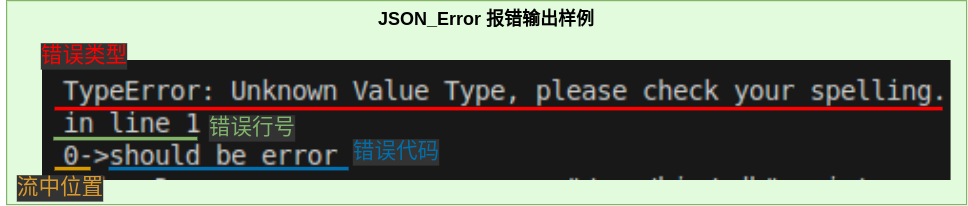
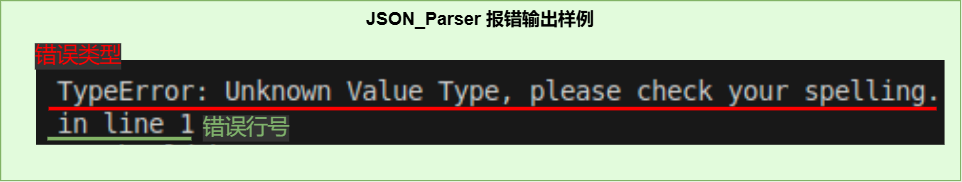
2024.8.12 night Update README & design file

diff --git a/doc/设计文档.md b/doc/设计文档.md
@@ -55,7 +55,6 @@ class JSON_String: public JSON_Value	//string类型数据
 class JSON_Number: public JSON_Value	//number类型数据
 class JSON_Bool: public JSON_Value		//true,false两个bool型
 class JSON_NULL: public JSON_Value		//null类型
-class JSON_Error: public JSON_Value		//报错类型
 ```
 ### 文件管理
 ![MyJSON文件结构](./pic_src/files.png)
@@ -103,39 +102,40 @@ class JSON_Error: public JSON_Value		//报错类型
 	V -> O|A|s|n|b|u
 >其实json格式解析也可以看作一个大的object或者array词法分析
 
-#### json解析主流程
-![json文件主流程](./pic_src/parser_json_file.png)
-
 ---
 ## 接口设计
 >**所有MyJSON库中的函数以及类，都在namespace MyJSON**  
 >**使用MyJSON库，可以直接 #include"MyJSON.h"**
 ### JSON_Value树
 #### 解析接口&输出接口
->创建一个JSON_Value对象，通过其解析器返回解析出来的JSON树  
->>*返回一个智能指针*
+>**JSON_Parser** 和 **JSON_Printer**  
+>创建一个JSON_Value对象，通过解析器返回解析出来的JSON树  
 ```cpp
-std::shared_ptr<MyJSON::JSON_Value> JSON_Value::parser(
-		std::istream& is,
-		std::shared_ptr<JSON_Value> father);
-
 using namespace MyJSON;
 //解析json
-JSON_Value Myparser
-std::shared_ptr<JSON_Value> JS = MyParser.parser(yourStream);
+istream is;
+JSON_Parser MyParser
+JSON_Value root;
+if(!MyParser.parse(is, root))
+{
+	// Error
+	Parse_State error_state1 = MyParser.print_error();//获取错误状态对象或者直接打印
+}
+
 //输出json
-JS->print(your ofstream);	// or std::cout
-```
->*JSON_\* 对象都有相应的parser和print（Value禁止 print，但指向子类的指针允许）*  
-```cpp
-virtual std::ostream& JSON_Value::print(std::ostream& os);
+ostream os;
+JSON_Printer MyPrinter;
+if(!MyPrinter.print(os, root))
+{
+	// Error
+	Print_State error_state2 = MyPrinter.print_error();//获取错误状态对象或者直接打印
+}
 ```
 #### 调用接口
 >***MyJSON Type***  
 ```cpp
 enum JSON_Type
 {
-	JERROR = -1,
 	JINITIAL,	//initial state means JSON_Value
 	JOBJECT,
 	JARRAY,
@@ -151,6 +151,7 @@ std::shared_ptr<JSON_Object> Myobject = JS->get_obj();
 
 get_type() == JOBJECT;
 get_size()		//number of pairs in the Myobject
+get_child()		//return cites of the unordered_map
 
 Myobject[key]	//return a shared_ptr<JSON_Value>, key's sample: "name"
 
@@ -162,6 +163,7 @@ std::shared_ptr<JSON_Array> Myarray = JS->get_arr();
 
 get_type() == Jarray;
 get_size()		//number of values in the Myarray;
+get_child()		//return cites of the vector
 
 Myarray[index]	//return a shared_ptr<JSON_Value>
 
@@ -244,7 +246,7 @@ public:
 						std::string error_info) = 0;	//（error_info错误信息）
 };
 ```
-> 处理器样例在文末附录  
+> 处理器样例在文末[附录](#附录)  
 > *~~处理器只需要重载函数就好了，而解析器复制树状解析代码需要考虑的就多了~~*
 #### 解析器
 > 与用户无关的部分  
@@ -268,17 +270,34 @@ class SAJ_Parser
 ```cpp
 void parse_to_SAJ(std::istream&, SAJ_Processor&);
 ```
-## 错误信息
-### JSON_Error
+## 解析状态（错误信息）
+### Parse_State & Print_State
 ```cpp
-std::ostream& JSON_Error::print(std::ostream& os)
-{
-	os << error_type_ << "\nin line " << error_line << '\n';
-	os << error_pos_ << "->" << error_code_ << '\n';
-	return os;
-}
+class Parse_State
+	{
+		bool state_ = true;	// Error:false
+		std::string error_code_;
+		int error_line_ = 1;
+	public:
+		void ignore_blank(std::istream& is);	// 解析时跳过空白字符
+		bool get_state();
+		// Error
+		void set_error(std::string ec);
+	};
+JSON_Parser::print_parser();	// 打印错误信息
+
+class Print_State
+	{
+		bool state_ = true;
+		int tab_deep_ = 0;
+	public:
+		void tab(bool ob);	// 打印时计算缩进
+		int tab_deep();
+		bool get_state();
+	};
+JSON_Printer::print_parser();	// 打印错误信息
 ```
-> *输出效果 (以std::cout为例)*  
+> ***输出效果*** *, 以std::cout为例(后续可能会有调整)*  
 ![JSON_Error sample](./pic_src/JSON_Error.png)
 
 ### JSON_Value::get_xxx() (throw Error)
@@ -523,8 +542,8 @@ class MyJSON_Processor:public SAJ_Processor
 		}
 	}
 	virtual void error(int error_line,
-		std::string last_token,
-		std::string error_info) override
+			std::string last_token,
+			std::string error_info) override
 	{
 		std::cerr << error_line << '\n';
 		std::cerr << error_info << '\n';

diff --git a/README.md b/README.md
@@ -24,30 +24,34 @@
 >**所有MyJSON库中的函数以及类，都在namespace MyJSON**
 ### JSON_Value树
 #### 解析接口&输出接口
+>**JSON_Parser** 和 **JSON_Printer**  
 >创建一个JSON_Value对象，通过其解析器返回解析出来的JSON树  
->>*返回一个智能指针*
 ```cpp
-std::shared_ptr<MyJSON::JSON_Value> JSON_Value::parser(
-		std::istream& is,
-		std::shared_ptr<JSON_Value> father);
-
 using namespace MyJSON;
 //解析json
-JSON_Value Myparser
-std::shared_ptr<JSON_Value> JS = MyParser.parser(yourStream);
+istream is;
+JSON_Parser MyParser
+JSON_Value root;
+if(!MyParser.parse(is, root))
+{
+	// Error
+	Parse_State error_state1 = MyParser.print_error();//获取错误状态对象或者直接打印
+}
+
 //输出json
-JS->print(your ofstream);	// or std::cout
-```
->*JSON_\* 对象都有相应的parser和print（Value禁止 print，但指向子类的指针允许）*  
-```cpp
-virtual std::ostream& JSON_Value::print(std::ostream& os);
+ostream os;
+JSON_Printer MyPrinter;
+if(!MyPrinter.print(os, root))
+{
+	// Error
+	Print_State error_state2 = MyPrinter.print_error();//获取错误状态对象或者直接打印
+}
 ```
 #### 调用接口
 >***MyJSON Type***  
 ```cpp
 enum JSON_Type
 {
-	JERROR = -1,
 	JINITIAL,	//initial state means JSON_Value
 	JOBJECT,
 	JARRAY,
@@ -63,6 +67,7 @@ std::shared_ptr<JSON_Object> Myobject = JS->get_obj();
 
 get_type() == JOBJECT;
 get_size()		//number of pairs in the Myobject
+get_child()		//return cites of the unordered_map
 
 Myobject[key]	//return a shared_ptr<JSON_Value>, key's sample: "name"
 
@@ -74,6 +79,7 @@ std::shared_ptr<JSON_Array> Myarray = JS->get_arr();
 
 get_type() == Jarray;
 get_size()		//number of values in the Myarray;
+get_child()		//return cites of the vector
 
 Myarray[index]	//return a shared_ptr<JSON_Value>
 
@@ -179,17 +185,34 @@ class SAJ_Parser
 ```cpp
 void parse_to_SAJ(std::istream&, SAJ_Processor&);
 ```
-## 错误信息
-### JSON_Error
+## 解析状态（错误信息）
+### Parse_State & Print_State
 ```cpp
-std::ostream& JSON_Error::print(std::ostream& os)
-{
-	os << error_type_ << "\nin line " << error_line << '\n';
-	os << error_pos_ << "->" << error_code_ << '\n';
-	return os;
-}
+class Parse_State
+	{
+		bool state_ = true;	// Error:false
+		std::string error_code_;
+		int error_line_ = 1;
+	public:
+		void ignore_blank(std::istream& is);	// 解析时跳过空白字符
+		bool get_state();
+		// Error
+		void set_error(std::string ec);
+	};
+JSON_Parser::print_parser();	// 打印错误信息
+
+class Print_State
+	{
+		bool state_ = true;
+		int tab_deep_ = 0;
+	public:
+		void tab(bool ob);	// 打印时计算缩进
+		int tab_deep();
+		bool get_state();
+	};
+JSON_Printer::print_parser();	// 打印错误信息
 ```
-> *输出效果 (以std::cout为例)*  
+> ***输出效果*** *, 以std::cout为例(后续可能会有调整)*  
 ![JSON_Error sample](./doc/pic_src/JSON_Error.png)
 
 ### JSON_Value::get_xxx()
